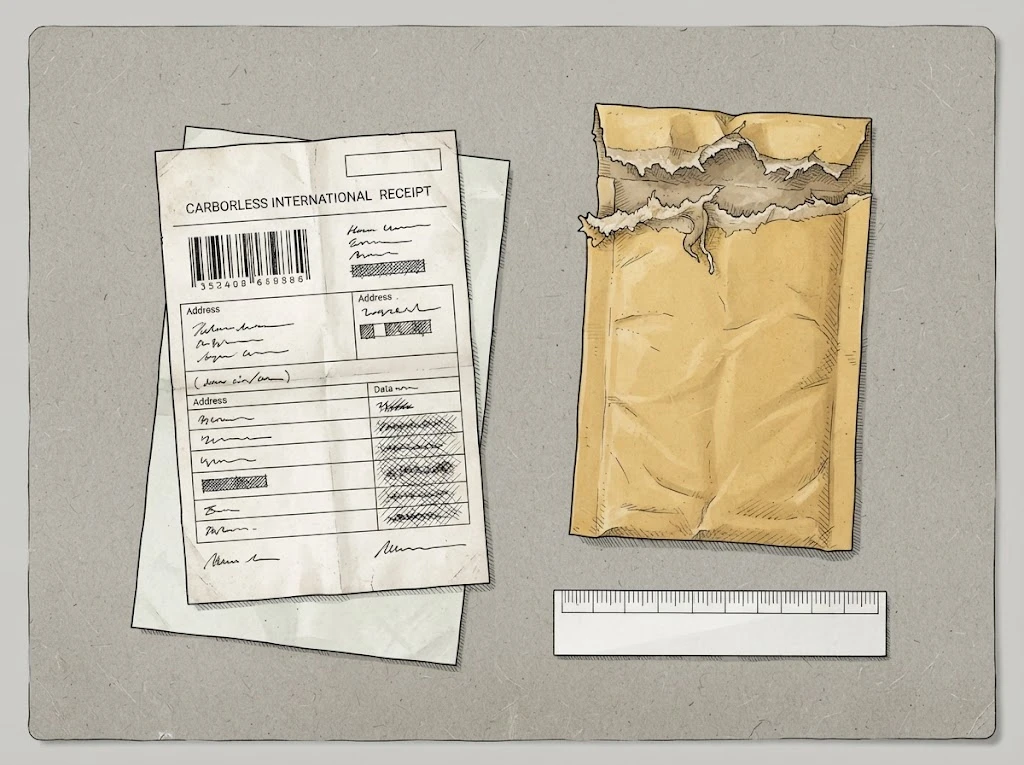
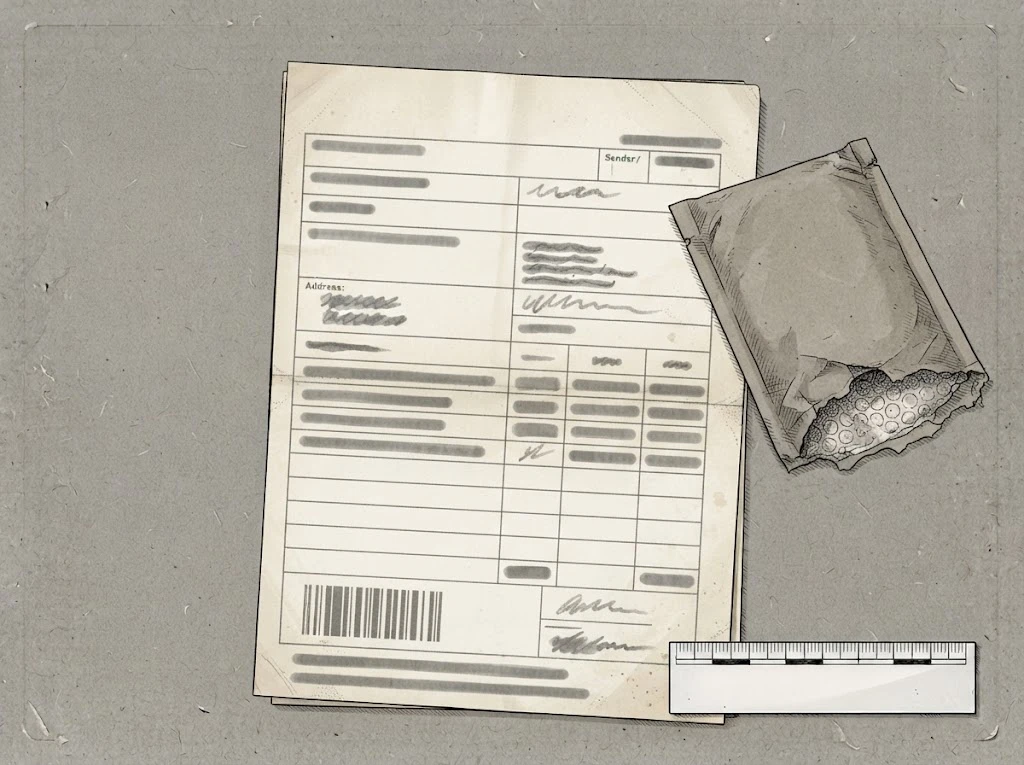
Yenileme: case073_courier — IMAGE_REDO bulgu listesi kapandı

diff --git a/Docs/IMAGE_REDO_PROMPTS.md b/Docs/IMAGE_REDO_PROMPTS.md
@@ -248,7 +248,7 @@ Sorun: "Council Hygiene Inspection Form" başlığı ve okunur madde satırları
 Forensic evidence illustration, top-down on a neutral grey evidence mat. An old council hygiene inspection form, two pages, a large red rubber-stamp mark and a signature at the bottom, all text illegible, slightly yellowed and folded in thirds. Small blank scale ruler without numbers. Flat forensic lighting, 2D hand-drawn ink illustration in the same style as the character portraits: fine black ink linework, cross-hatching and stippling, muted realistic colour wash, not a photograph, not 3D, no readable text, no logos. IMPORTANT FIX: illegible scribbles, no readable words. Absolutely no readable text, letters, numbers, logos, brands or real currency anywhere. Every line of writing or print is drawn only as solid grey horizontal smudge bars, no letters, no numbers, no headings.
 ```
 
-## case073_courier → `Items/case073_courier.png`
+## ✅ case073_courier → `Items/case073_courier.png`
 
 Sorun: "CARBORLESS INTERNATIONAL RECEIPT" başlığı, okunur barkod numarası
 

diff --git a/Docs/IMAGE_REDO.md b/Docs/IMAGE_REDO.md
@@ -16,4 +16,3 @@ Portreler ve adli bulgular bitince topluca yeniden üretilecek. Şu anki görsel
 - Dünya kartpostalları (jp, fr, us, it, es, ca, au): `WORLD_BACKDROP_PROMPTS.md`.
 - Görsel geldikçe bu tabloya sorunlu olanlar eklenir. Bulgular `Bube/Items/caseNNN_<ad>.png` yoluna yazılır; sonra `python3 Tools/bind-items.py` çalıştırılır; oyuna bağlar.
 | `Items/case028–033_*` | Pikselli kenar — 1024×765 olanlar kırpılarak temizlendi; 1024×1024 kalan #028–#029 kontrol edilecek | gerekirse yeniden üret |
-| `Items/case073_courier` | "CARBORLESS INTERNATIONAL RECEIPT" başlığı, okunur barkod numarası | "illegible scribbles, no readable words or numbers" |
